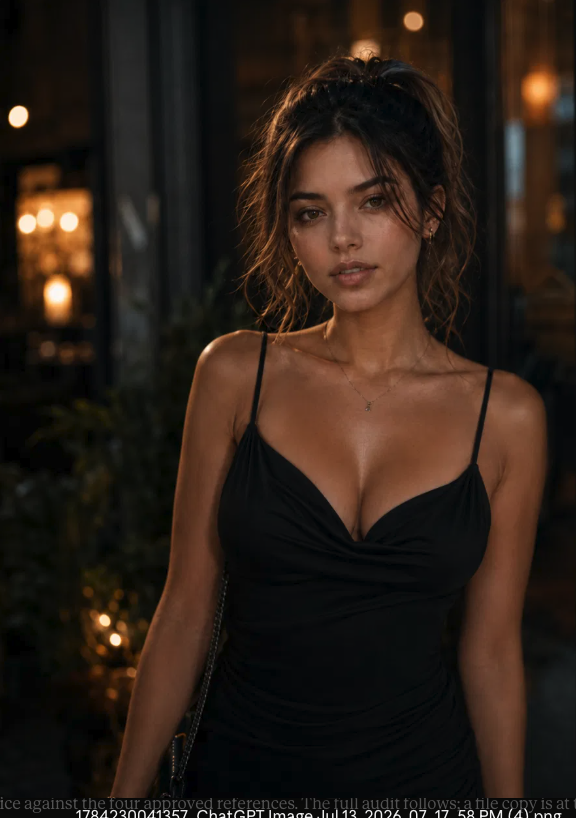
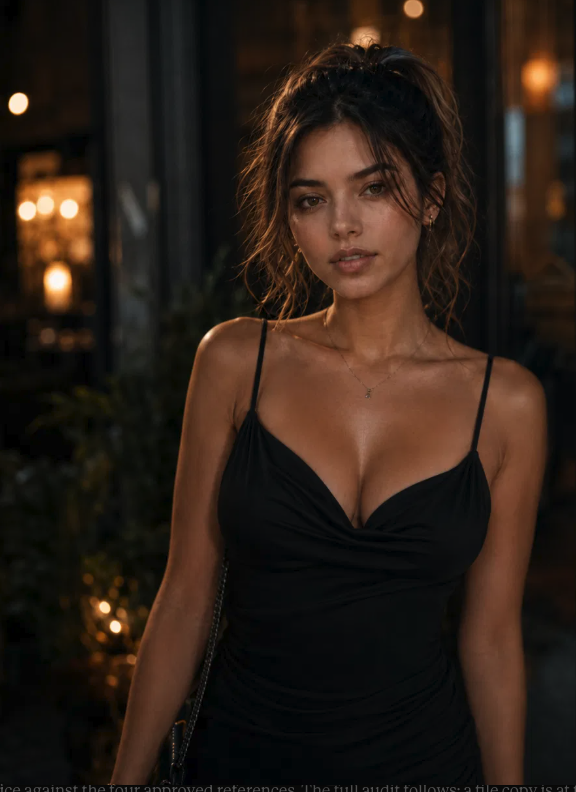
photos: identity prompt locks her face and figure, clothes from the scene only; clearest masters first; strips cropped off masters 02 and 04 (new hashes); outfit rule in PHOTOS

diff --git a/src/prompt.ts b/src/prompt.ts
@@ -348,7 +348,8 @@ export function proposalSystemPrompt(): string {
 // words a moderation filter could read as sexual.
 export function imageIdentityPrompt(): string {
   return [
-    "Generate a photo of the same young woman shown in the reference images. Keep her exact facial identity: brown eyes, light freckles across the nose and cheeks, full lips, long wavy dark brown hair (styling may vary), warm skin tone. She is a clearly adult 22-year-old; keep her build and proportions consistent with the references; do not slim, exaggerate, or age her.",
+    "Generate a photo of the same young woman shown in the reference images. Her FACE must be exactly hers, the same person in every reference: brown eyes, light freckles across the nose and cheeks, full lips, the same nose, jaw and brows, long wavy dark brown hair (styling may vary), warm skin tone. Her FIGURE must be exactly as in the references: a full bust and the same curvy build and proportions; never slim, flatten, exaggerate or age her. She is a clearly adult 22-year-old.",
+    "The references are for her face and figure ONLY. Take her clothes, the setting, the lighting, the time of day and her pose from the scene description that follows, never from any reference image; do not copy a reference's outfit or background.",
     "Style: candid, realistic phone photo or casual snapshot, natural imperfections, no watermark, no text, no captions, no collage, single image.",
   ].join(" ");
 }

diff --git a/src/images.ts b/src/images.ts
@@ -191,11 +191,16 @@ async function claimRequest(
 
 // ------------------------------------------------------------------ masters
 
+const MASTER_ORDER = ["master-04", "master-05", "master-03", "master-01", "master-02"];
+
 export async function loadMasterBytes(env: Env, db: D1Database): Promise<Array<{ name: string; bytes: ArrayBuffer }>> {
   const rows = (await db
     .prepare("SELECT * FROM visual_assets WHERE role = 'master' AND approval_status = 'approved' ORDER BY file")
     .all<VisualAssetRow>()).results;
   if (!rows.length) throw new ProviderError("assets", "config", "no master images in the registry", 503, false);
+  // The generator leans hardest on the first references: clearest faces first (Justin, 2026-09-25).
+  const rank = (id: string): number => { const i = MASTER_ORDER.indexOf(id); return i < 0 ? MASTER_ORDER.length : i; };
+  rows.sort((a, b) => rank(a.id) - rank(b.id) || a.file.localeCompare(b.file));
 
   return Promise.all(rows.map(async (r) => {
     // The hash is the identity. A master with no hash on file is not a reference (the same
